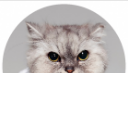
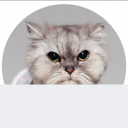
냥정보 아이콘 원형 정상화 + 재단YT 사각 재생 아이콘 (v1.36)
- 냥정보 탭 아이콘이 반원(돔)만 보이던 문제 수정: cat-tab.png를
  정사각형(256→128)으로 재생성해 CSS 원형이 온전히 적용되게 함
- 재단YT 재생 아이콘을 빨간 둥근 사각형으로 변경

Claude-Session: https://claude.ai/code/session_01JxhGpsAM4cQ6Sf98crkRnj

diff --git a/templates/index.html b/templates/index.html
@@ -14,23 +14,23 @@
   <meta property="og:title" content="휴 스코프" />
   <meta property="og:description" content="재단·업계 뉴스와 재단 게시판·소셜 채널을 한눈에" />
   <meta property="og:url" content="{{ og_base }}/" />
-  <meta property="og:image" content="{{ og_base }}{{ url_for('static', filename='og-image.png', v='137') }}" />
+  <meta property="og:image" content="{{ og_base }}{{ url_for('static', filename='og-image.png', v='138') }}" />
   <meta property="og:image:width" content="1200" />
   <meta property="og:image:height" content="630" />
   <meta property="og:locale" content="ko_KR" />
   <meta name="twitter:card" content="summary_large_image" />
   <meta name="twitter:title" content="휴 스코프" />
   <meta name="twitter:description" content="재단·업계 뉴스와 재단 게시판·소셜 채널을 한눈에" />
-  <meta name="twitter:image" content="{{ og_base }}{{ url_for('static', filename='og-image.png', v='137') }}" />
+  <meta name="twitter:image" content="{{ og_base }}{{ url_for('static', filename='og-image.png', v='138') }}" />
 
   <meta name="apple-mobile-web-app-capable" content="yes" />
   <meta name="apple-mobile-web-app-status-bar-style" content="default" />
   <meta name="apple-mobile-web-app-title" content="휴 스코프" />
-  <link rel="icon" href="{{ url_for('static', filename='favicon.svg', v='137') }}" type="image/svg+xml" />
-  <link rel="icon" href="{{ url_for('static', filename='icon-192.png', v='137') }}" type="image/png" sizes="192x192" />
-  <link rel="apple-touch-icon" href="{{ url_for('static', filename='apple-touch-icon.png', v='137') }}" />
-  <link rel="manifest" href="{{ url_for('static', filename='site.webmanifest', v='137') }}" />
-  <link rel="stylesheet" href="{{ url_for('static', filename='css/style.css', v='137') }}" />
+  <link rel="icon" href="{{ url_for('static', filename='favicon.svg', v='138') }}" type="image/svg+xml" />
+  <link rel="icon" href="{{ url_for('static', filename='icon-192.png', v='138') }}" type="image/png" sizes="192x192" />
+  <link rel="apple-touch-icon" href="{{ url_for('static', filename='apple-touch-icon.png', v='138') }}" />
+  <link rel="manifest" href="{{ url_for('static', filename='site.webmanifest', v='138') }}" />
+  <link rel="stylesheet" href="{{ url_for('static', filename='css/style.css', v='138') }}" />
 </head>
 <body>
   <header class="app-header">
@@ -54,7 +54,7 @@
   <div class="tabs-wrap" id="tabs-wrap">
     <nav class="tabs" id="tabs">
       <button class="tab active" data-tab="cat" aria-label="냥정보">
-        <img class="cat-photo" src="{{ url_for('static', filename='cat-tab.png', v='137') }}" alt="" />냥정보</button>
+        <img class="cat-photo" src="{{ url_for('static', filename='cat-tab.png', v='138') }}" alt="" />냥정보</button>
       <button class="tab" data-tab="game">🕹 게임정보</button>
       <button class="tab" data-tab="news" aria-label="NC 뉴스">
         <span class="nc-mark">nc</span>뉴스</button>
@@ -63,8 +63,8 @@
       <button class="tab" data-tab="boards">📋 재단게시판</button>
       <button class="tab" data-tab="social" aria-label="재단 영상">
         <svg class="yt-ci" viewBox="0 0 24 24" width="19" height="19" aria-hidden="true">
-          <circle cx="12" cy="12" r="10" fill="#e0201b"/>
-          <path d="M9.5 8 L16 12 L9.5 16 Z" fill="#fff"/>
+          <rect x="2" y="2" width="20" height="20" rx="5" fill="#e0201b"/>
+          <path d="M10 8 L16 12 L10 16 Z" fill="#fff"/>
         </svg>재단</button>
     </nav>
   </div>
@@ -336,7 +336,7 @@
   <footer class="app-footer">
     <div class="foot-left">
       <span class="foot-copy">© 2026 김상화</span>
-      <span class="ver">v1.35 · build 260925</span>
+      <span class="ver">v1.36 · build 260925</span>
       <span class="ver" id="storage-badge"></span>
     </div>
     <div class="foot-right">
@@ -348,6 +348,6 @@
 
   <button id="to-top" aria-label="맨 위로" hidden>↑</button>
 
-  <script src="{{ url_for('static', filename='js/app.js', v='137') }}"></script>
+  <script src="{{ url_for('static', filename='js/app.js', v='138') }}"></script>
 </body>
 </html>

diff --git a/CHANGELOG.md b/CHANGELOG.md
@@ -1,6 +1,10 @@
 # 📅 변경 이력
 
 ## 2026-09-25 (추가)
+### v1.36 · 260925 — 냥정보 아이콘 원형 정상화 + 재단YT 사각 아이콘
+냥정보 탭 아이콘이 절반(돔)만 보이던 문제 수정(사진을 정사각형으로 다시 생성 → CSS 원형). 재단YT 재생 아이콘을 빨간 사각형(둥근 모서리)으로 변경.
+
+## 2026-09-25 (추가)
 ### v1.35 · 260925 — NC/재단YT 탭 아이콘 색·굵기 조정
 NC뉴스 아이콘을 볼드 소문자 'nc' 파란색으로, 재단YT 재생 아이콘을 빨간색으로 변경(일반 아이콘의 색·굵기만 조정, 공식 로고는 미사용).
 
